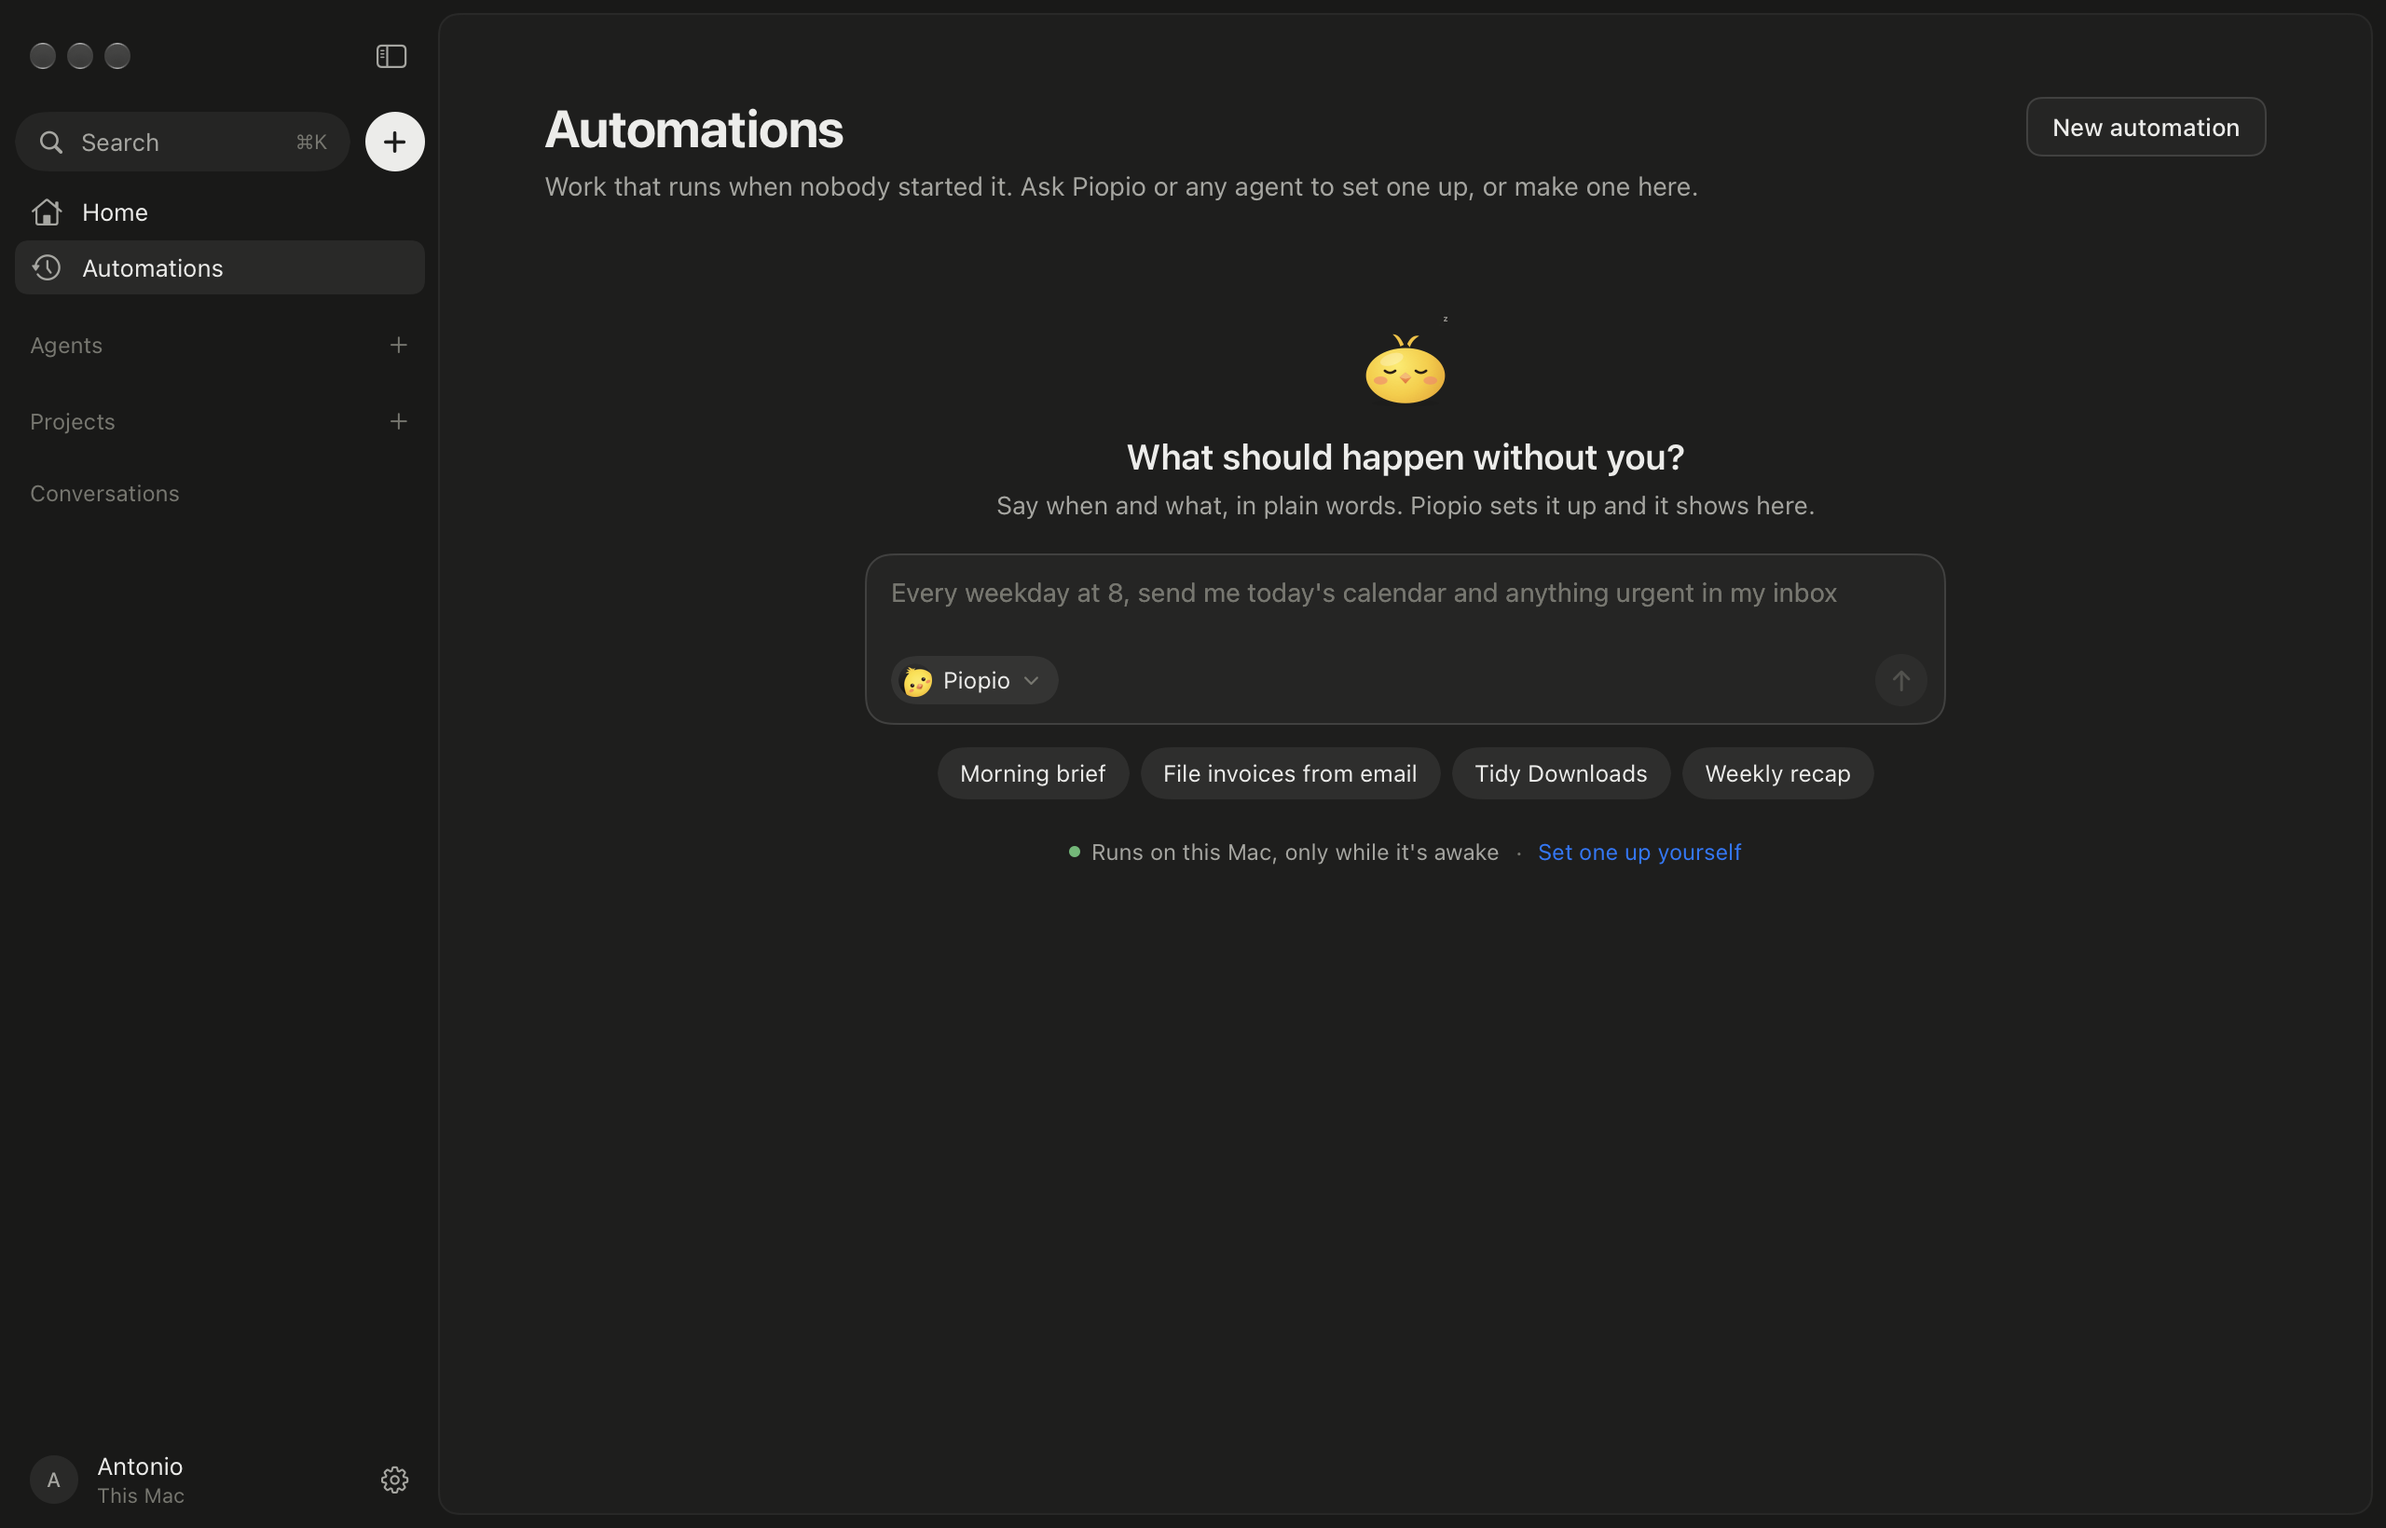
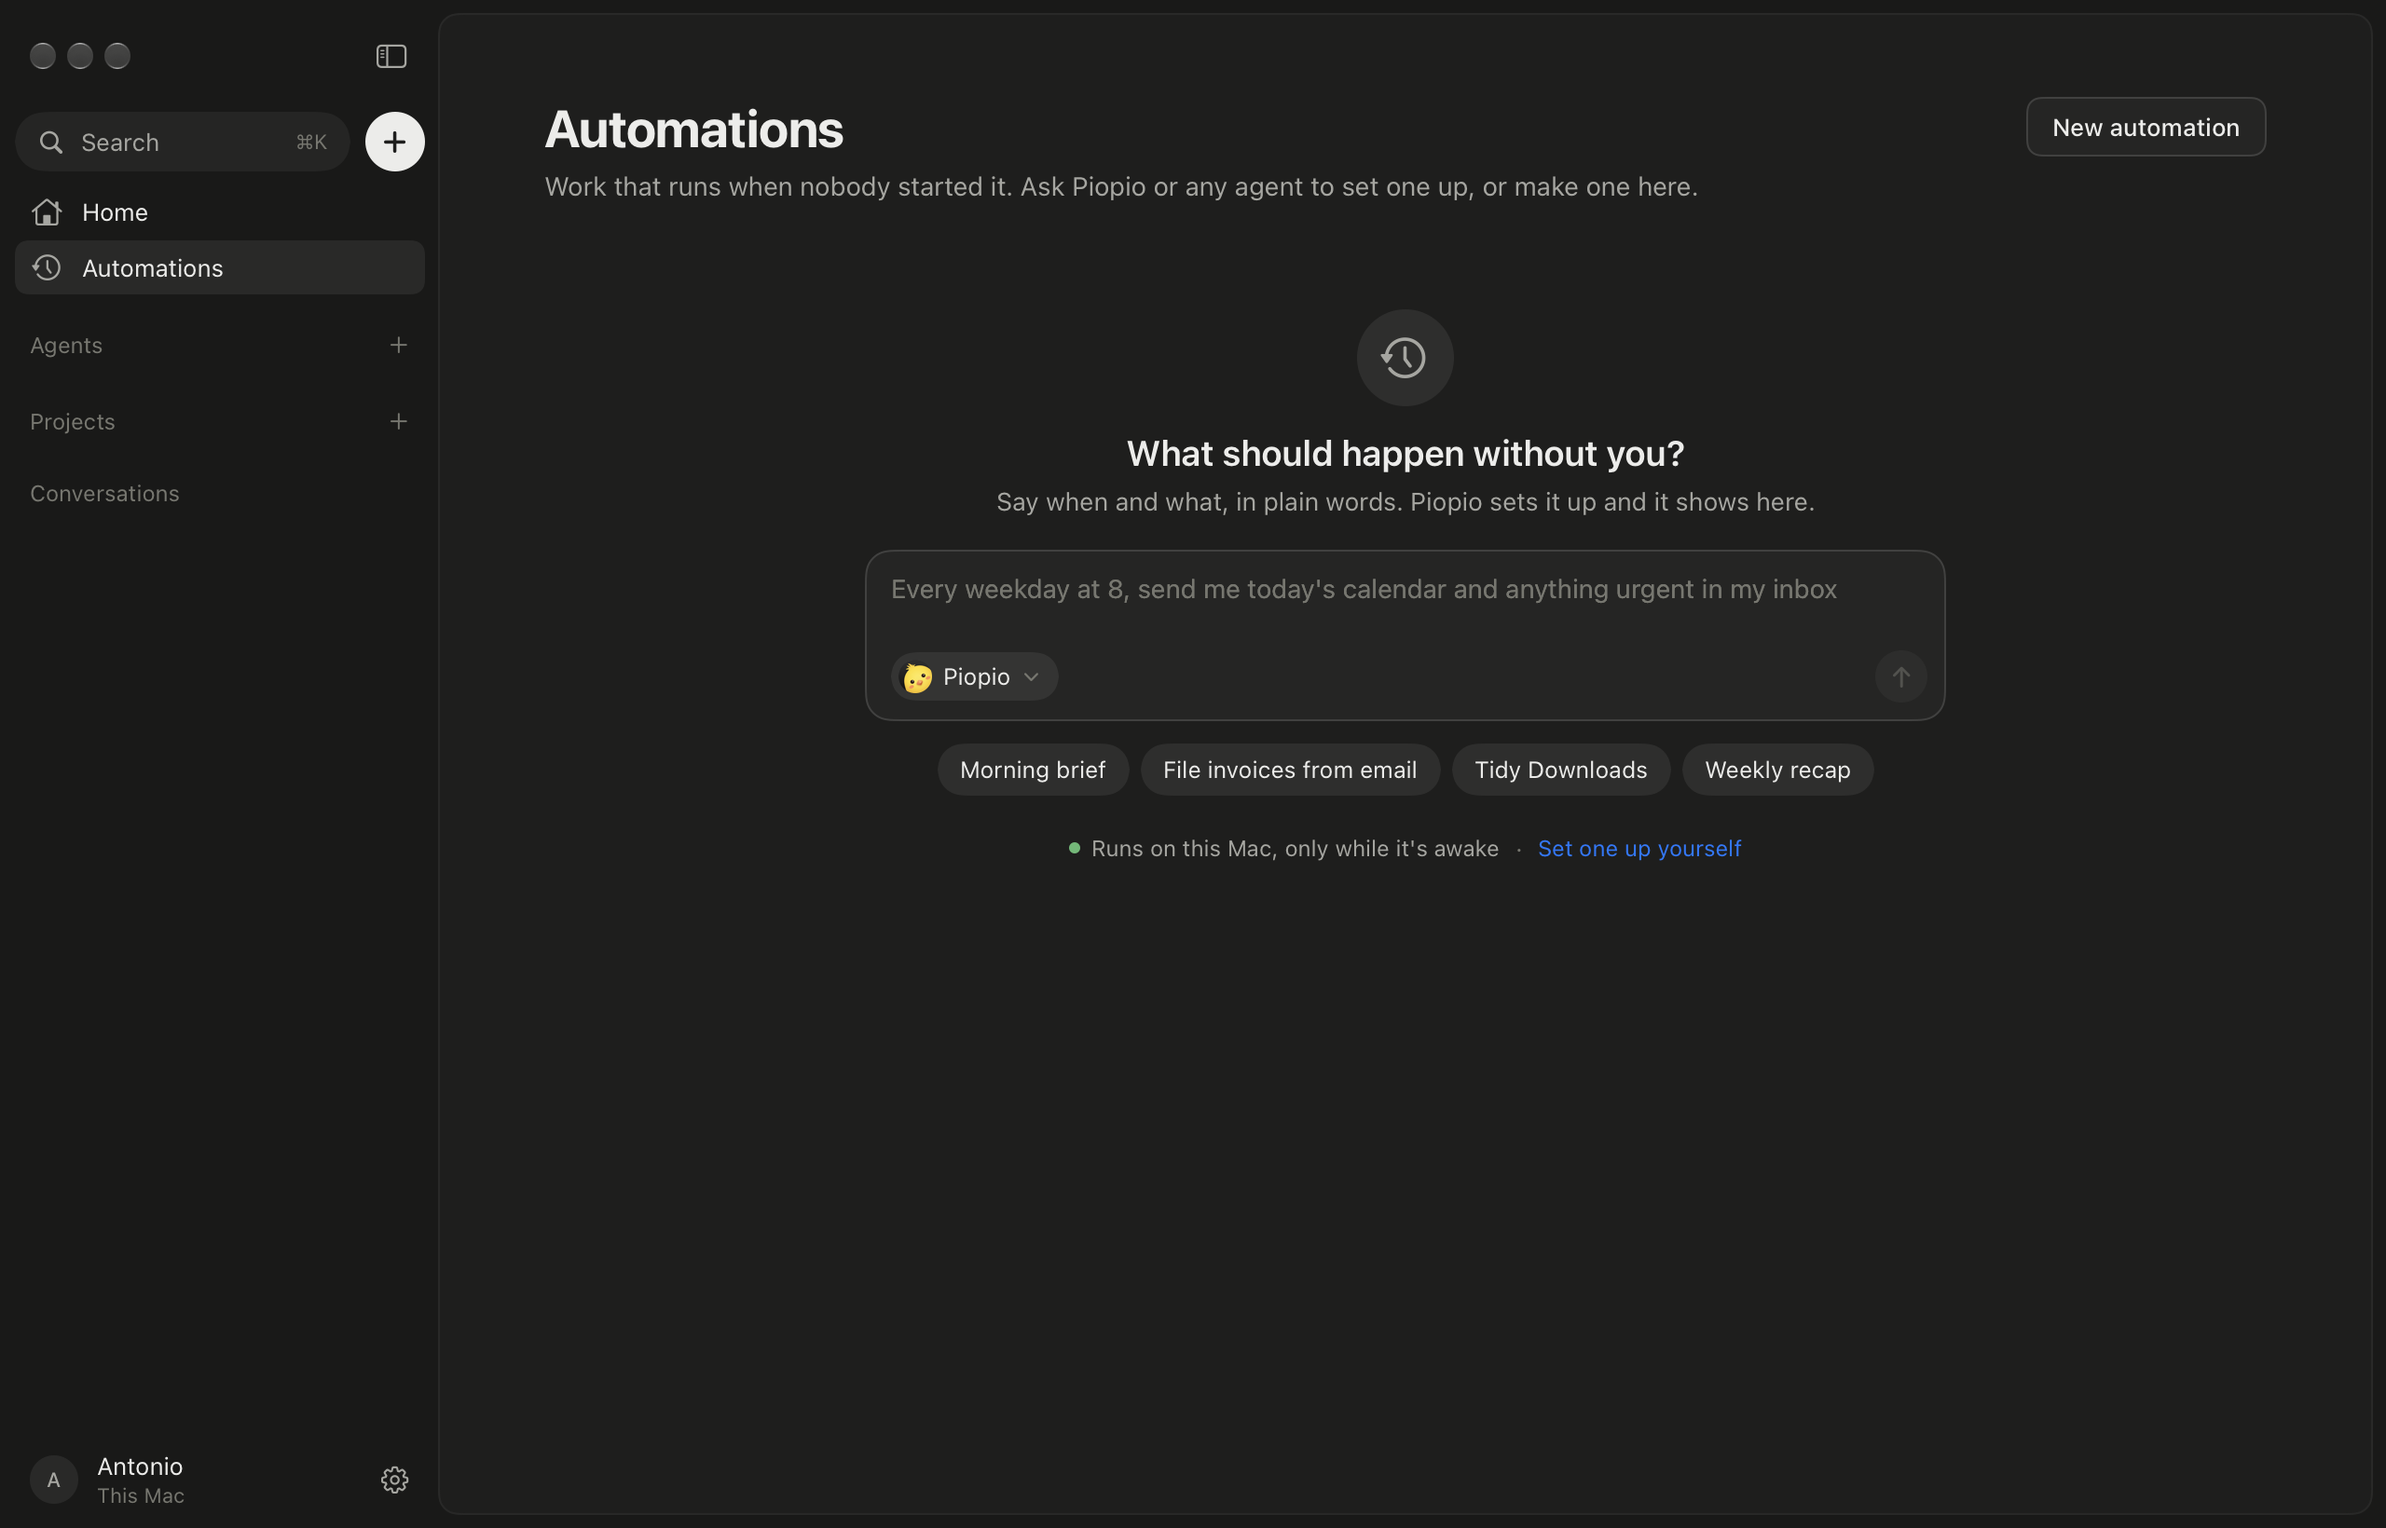
Automations: the empty list shows its glyph, not the mascot
The piopio mascot stays on Home. The empty Automations page uses the sidebar's Automations glyph in a grey circle,
and the mascot's nap flag is gone.

diff --git a/apps/mac/App/Piopio/Automations.swift b/apps/mac/App/Piopio/Automations.swift
@@ -30,7 +30,6 @@ struct AutomationsPage: View {
     /// New automation with nothing yet: the box on the page lights up instead of a second box in a popover.
     @State private var nudge = false
     @FocusState private var composerFocused: Bool
-    @State private var chick = Piopio(napping: true)
 
     private var shown: [Automation] {
         guard let filter else { return engine.automations }
@@ -168,11 +167,16 @@ struct AutomationsPage: View {
 
     // MARK: Nothing yet
 
-    /// Nothing yet: piopio asleep, a box to ask in, four ideas that fill it, and setting one up by hand.
+    /// Nothing yet: the sidebar's Automations glyph (piopio stays on Home), a box to ask in, four ideas that fill it,
+    /// and setting one up by hand.
     private var empty: some View {
         let name = engine.runnerName(runner)
         return VStack(spacing: 0) {
-            PiopioPerch(model: chick, size: 54)
+            Image(systemName: "clock.arrow.circlepath")
+                .font(.system(size: 22, weight: .regular)).foregroundStyle(Color.dsFg2)
+                .frame(width: 52, height: 52)
+                .background(Circle().fill(Color.dsChip))
+                .accessibilityHidden(true)
             Text(fixedRunner.map { "\(engine.runnerName($0)) doesn't run anything on its own yet" } ?? "What should happen without you?")
                 .font(.system(size: 19, weight: .semibold)).foregroundStyle(Color.dsFg)
                 .multilineTextAlignment(.center)

diff --git a/docs/design/automations/prototype/index.html b/docs/design/automations/prototype/index.html
@@ -375,8 +375,9 @@ function composerInner(where,r){
   </div>`;
 }
 function sleepy(){
-  return `<svg width="72" height="64" viewBox="0 0 72 64" aria-hidden="true"><ellipse cx="36" cy="58" rx="18" ry="3" fill="var(--line)"/><circle cx="36" cy="36" r="20" fill="#F7C948"/><path d="M38 33q3 2.2 6 0" stroke="#2B2B29" stroke-width="1.8" fill="none" stroke-linecap="round"/><path d="M52 37l6 2-6 2z" fill="#E8891C"/><path d="M24 42c3 4 9 5 13 2" stroke="#E2AE2E" stroke-width="2" fill="none" stroke-linecap="round"/><text x="54" y="18" font-size="11" fill="var(--fg3)" font-weight="600">z</text><text x="61" y="10" font-size="8" fill="var(--fg3)" font-weight="600">z</text></svg>`;
+  return `<div style="width:52px;height:52px;border-radius:50%;background:var(--bubble);display:inline-flex;align-items:center;justify-content:center;color:var(--fg2);font-size:24px" aria-hidden="true">◷</div>`;
 }
+
 
 function current(){return S.view.draft?S.draft:S.list.find(a=>a.id===S.view.id)}
 function detailPage(){

diff --git a/apps/mac/App/Piopio/PiopioMascot.swift b/apps/mac/App/Piopio/PiopioMascot.swift
@@ -29,15 +29,11 @@ final class Piopio {
     private var typingTask: Task<Void, Never>?
     private var pointerTask: Task<Void, Never>?
 
-    /// Asleep whatever the time (the empty Automations page: nothing runs on its own yet); a tap wakes it.
-    private let napping: Bool
-
     /// A chick with a job doesn't nap.
-    var asleep: Bool { job == nil && (mood == .morning || napping) && !woke }
+    var asleep: Bool { job == nil && mood == .morning && !woke }
 
-    init(job: PiopioJob? = nil, napping: Bool = false) {
+    init(job: PiopioJob? = nil) {
         self.job = job
-        self.napping = napping
     }
 
     /// Puts on another job's outfit: it hops and says the job's line.

diff --git a/docs/design/automations/IMPLEMENTATION.md b/docs/design/automations/IMPLEMENTATION.md
@@ -22,7 +22,7 @@ Built from the HTML prototype in [`prototype/`](prototype/index.html), which rep
 
 | Screen | What's in the app |
 |---|---|
-| Nothing yet | piopio asleep (a tap wakes it), "What should happen without you?" (or "Rita doesn't run anything on its own yet"), the line, a box with who sets it up and send, four ideas (Morning brief · File invoices from email · Tidy Downloads · Weekly recap) that fill the box, and "Runs on this Mac · Set one up yourself". Capture: `app/empty.png`, `app/empty-dark.png`. |
+| Nothing yet | The sidebar's Automations glyph in a grey circle (the piopio mascot is Home's alone), "What should happen without you?" (or "Rita doesn't run anything on its own yet"), the line, a box with who sets it up and send, four ideas (Morning brief · File invoices from email · Tidy Downloads · Weekly recap) that fill the box, and "Runs on this Mac · Set one up yourself". Capture: `app/empty.png`, `app/empty-dark.png`. |
 | Asking | Sends to a new Piopio conversation or the agent's chat and stays: "Piopio is setting it up…" in the box, then a dark note at the foot, "Piopio set up “Morning brief” · Every weekday at 08:00 · first run tomorrow 8:00" with Open and Undo, and the row with New. If no automation came of it: "answered instead" or "needs your OK", with Open conversation. Capture: `app/ask.png`. |
 | New automation | With automations, a 400pt popover: "What should run on its own?", the box, three ideas, "Set it up yourself →". With none, it focuses the box on the page and rings it in accent. Capture: `app/new.png`. |
 | Draft | The automation's page with nothing saved: grey "New automation" title, the sentence ("to …" until you write), What it's told focused, While you're away with the usual defaults, a dashed "Not on yet. First run would be …". Discard · Turn on (⌘↩). Turn on opens the saved one's page. Captures: `app/draft.png`, `app/draft-on.png`. |

diff --git a/docs/spec/27-automations.md b/docs/spec/27-automations.md
@@ -107,7 +107,7 @@ Slack"). The model makes it and answers with a card:
 - Filter chips by runner (All · Piopio · each agent) and the "Runs on This Mac, only while it's awake" line.
 - One row per automation: its name and when; who runs it (with the project, for Piopio); where it tells you; the last
   or next run; an on/off switch. A paused row is dimmed. A new one has a "New" badge until it's opened.
-- **Nothing yet** (docs/design/automations/prototype): piopio asleep, "What should happen without you?", a box to ask
+- **Nothing yet** (docs/design/automations/prototype): the Automations glyph (piopio stays on Home), "What should happen without you?", a box to ask
   in with who sets it up (Piopio or an agent; the agent when the list shows one), four ideas that fill the box, and
   "Set one up yourself". Asking sends what you wrote to a new conversation with Piopio, or to the agent's chat, and
   stays on the list: once the runner has answered, a note at the foot says what it set up (Open, Undo) or, when it
